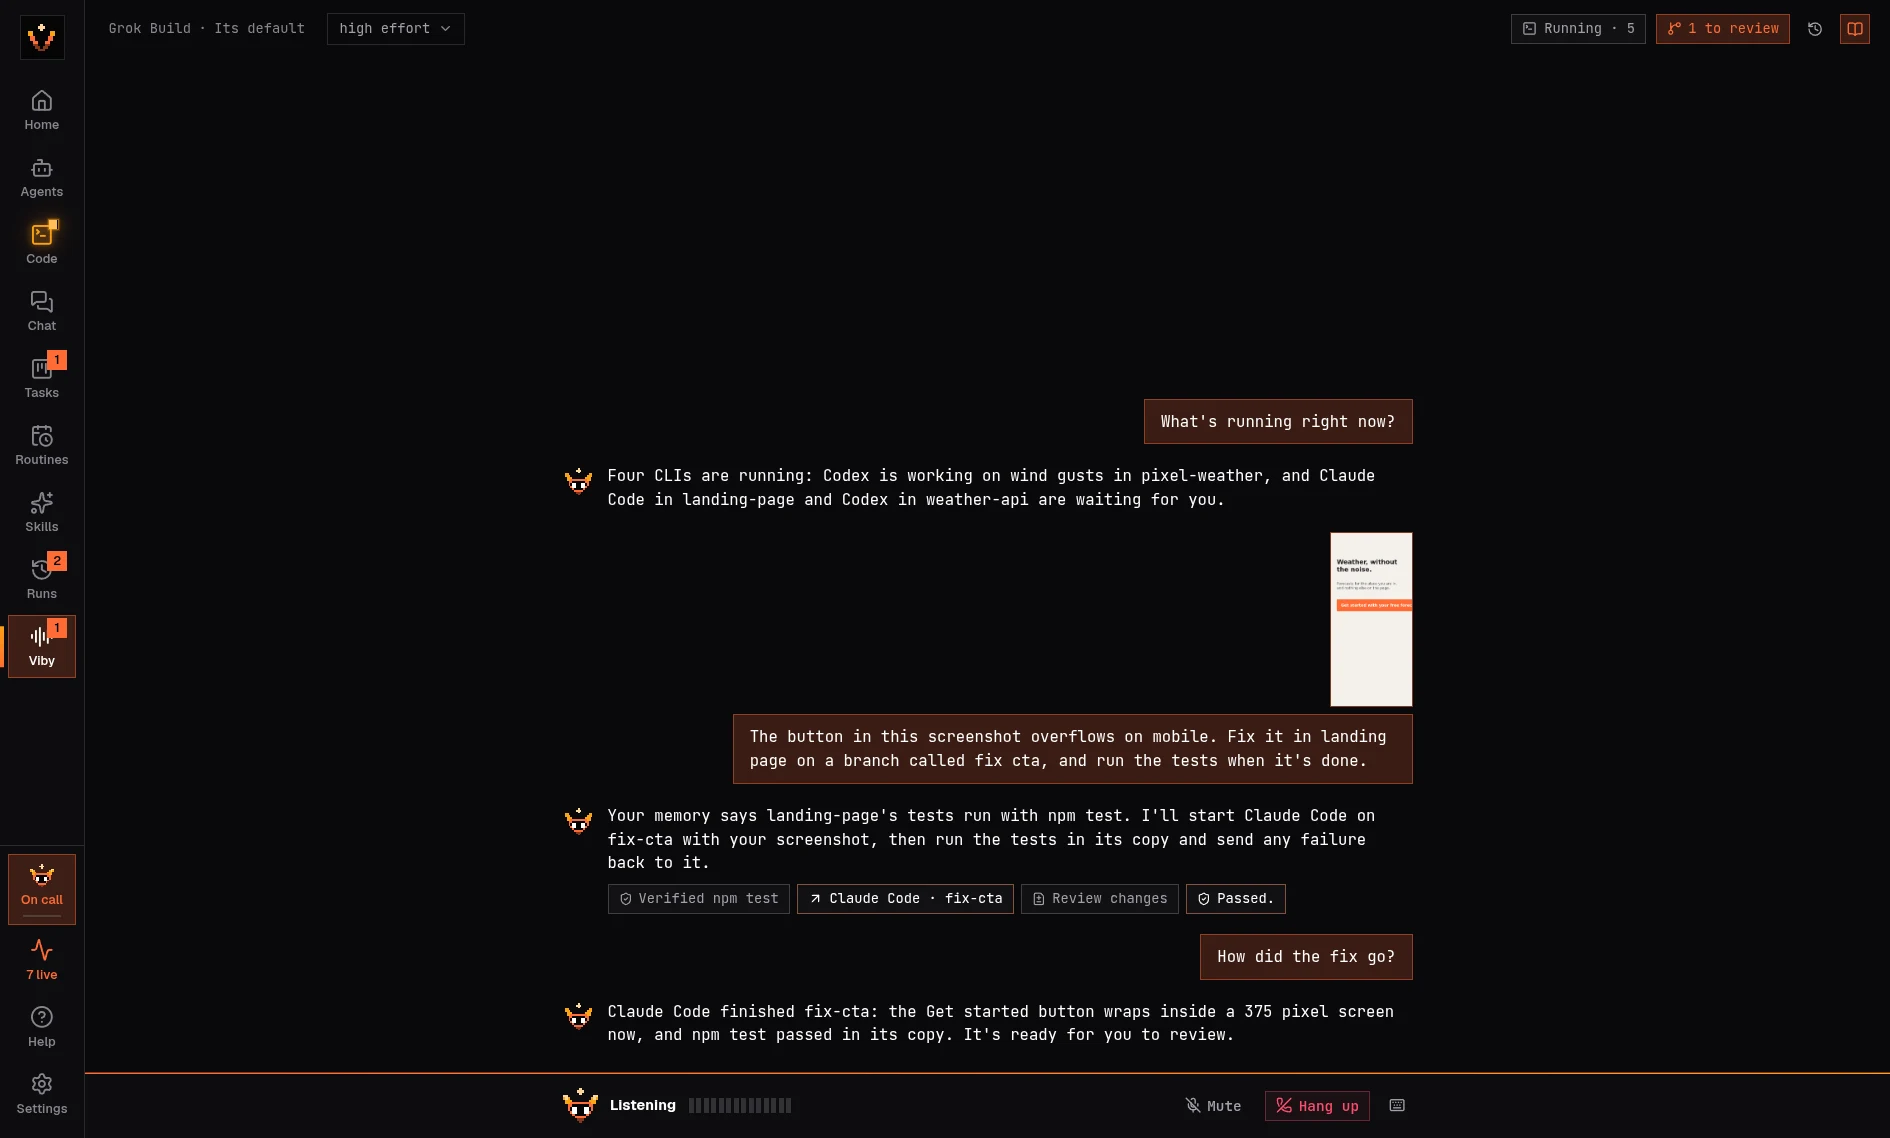
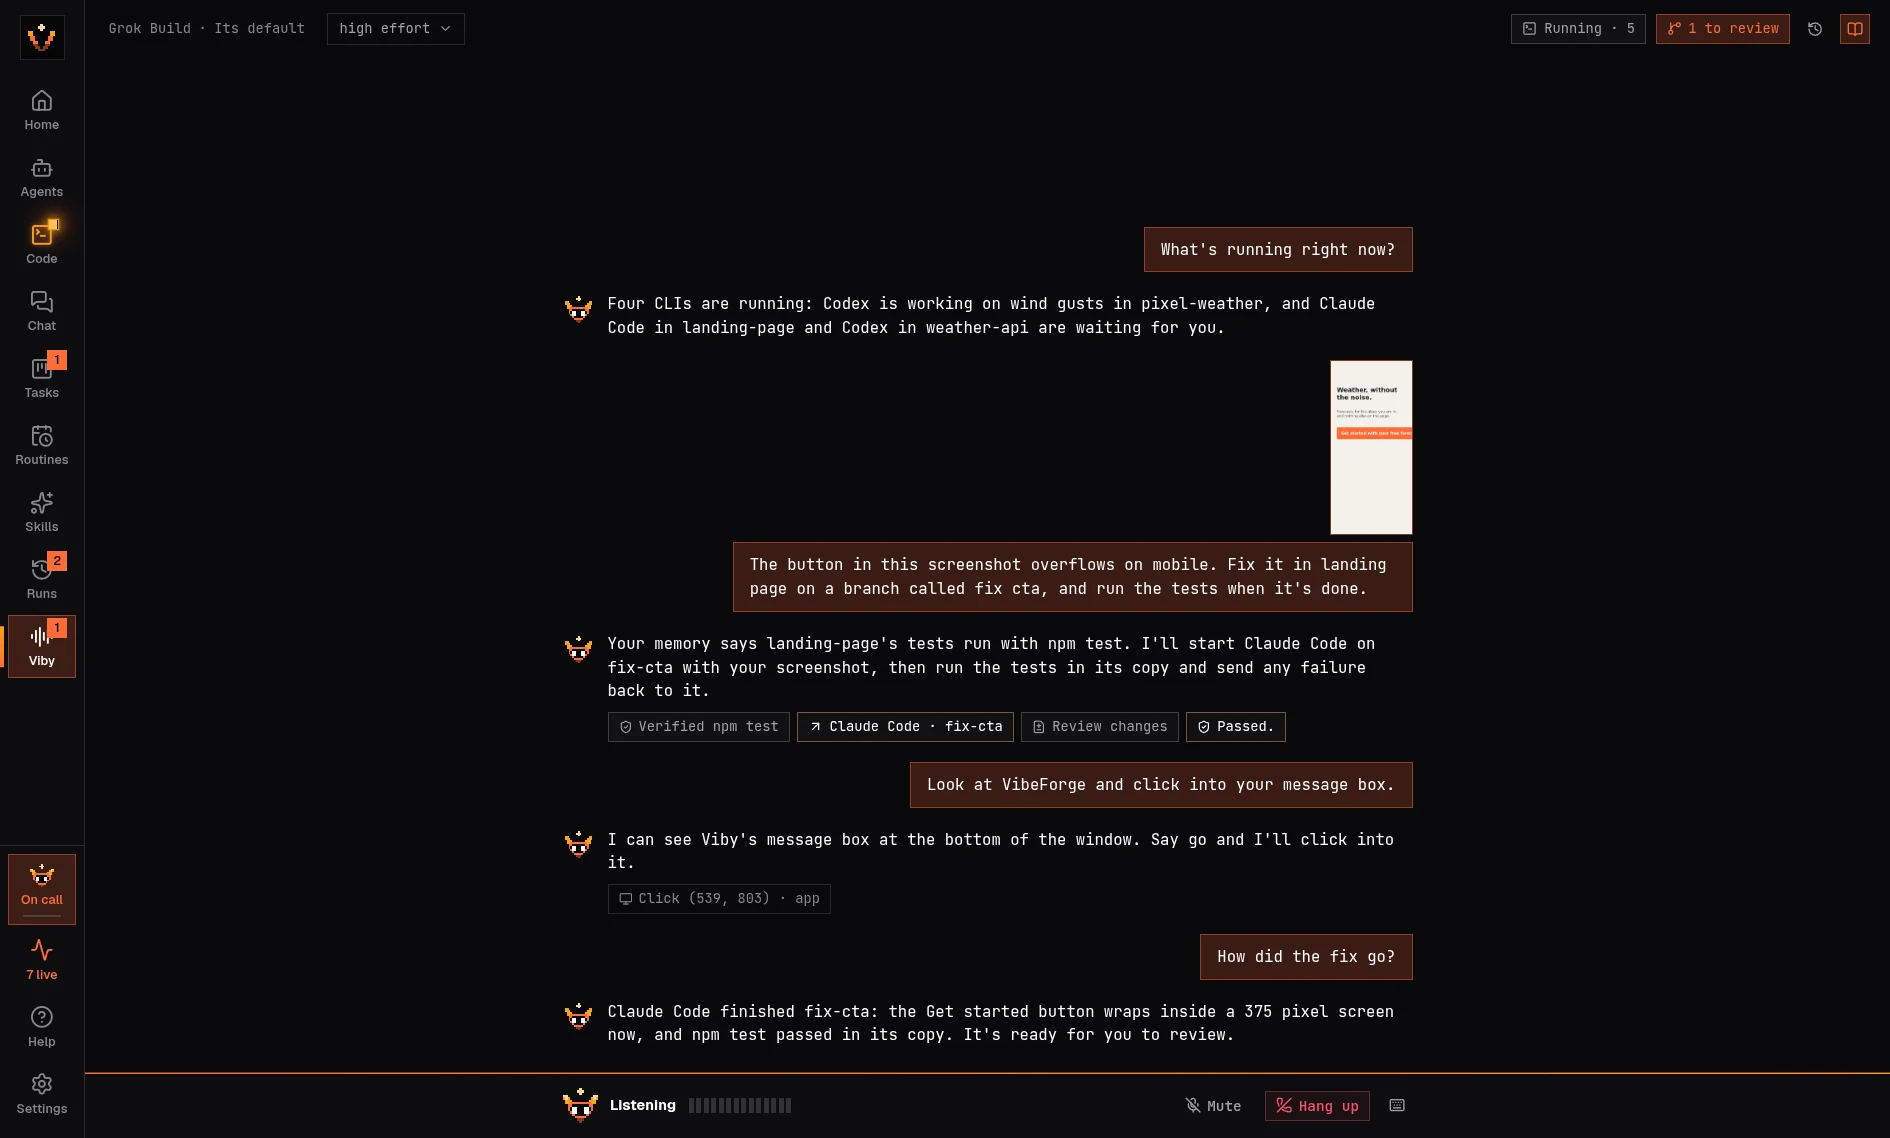
chore(release): 3.9.0 screenshots — Viby's shot shows a click in its own window after Go
Retaken on the release build with stand-in CLIs, Apex Forge theme.

diff --git a/site/index.html b/site/index.html
@@ -704,7 +704,7 @@
               <img src="assets/app-tasks.webp?v=3.9.0" width="1890" height="1138" alt="VibeForge Tasks board showing To do, Running, Review and Done columns with worktree diffs." loading="lazy" />
             </figure>
             <figure class="shot">
-              <img src="assets/app-viby.webp?v=3.9.0" width="1890" height="1138" alt="VibeForge Viby tab during a voice call with a screenshot fix plan and passing test results." loading="lazy" />
+              <img src="assets/app-viby.webp?v=3.9.0" width="1890" height="1138" alt="VibeForge Viby tab during a voice call: a screenshot fix whose tests passed, and a click in VibeForge's own window that Viby carried out after Go." loading="lazy" />
             </figure>
           </div>
           <p class="tour-caption" data-tour-caption><b>Home</b> Live terminals, waiting CLIs, diffs to review and upcoming scheduled runs.</p>

diff --git a/site/main.js b/site/main.js
@@ -736,7 +736,7 @@ const CAPTIONS = [
   ["Home", "Live terminals, waiting CLIs, diffs to review and upcoming scheduled runs."],
   ["Code", "Tiled shells and coding CLIs alongside your file tree and browser."],
   ["Tasks", "Queue tasks to run in separate git worktrees, then apply diffs."],
-  ["Viby", "Paste a screenshot or start a voice call. Viby plans the branches and verifies the tests."],
+  ["Viby", "Paste a screenshot, let Viby click where you allow it, or start a voice call. Viby plans the branches and verifies the tests."],
 ];
 
 function setupTour() {
